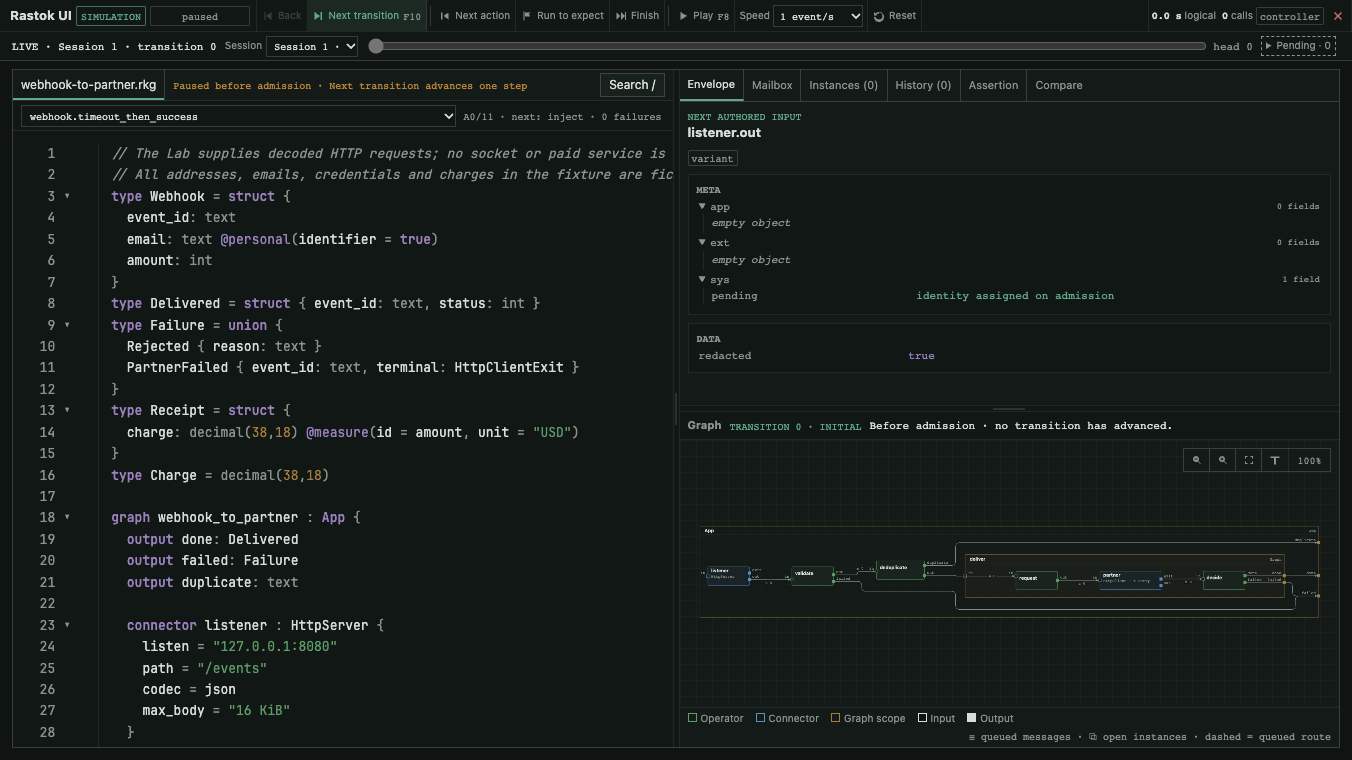
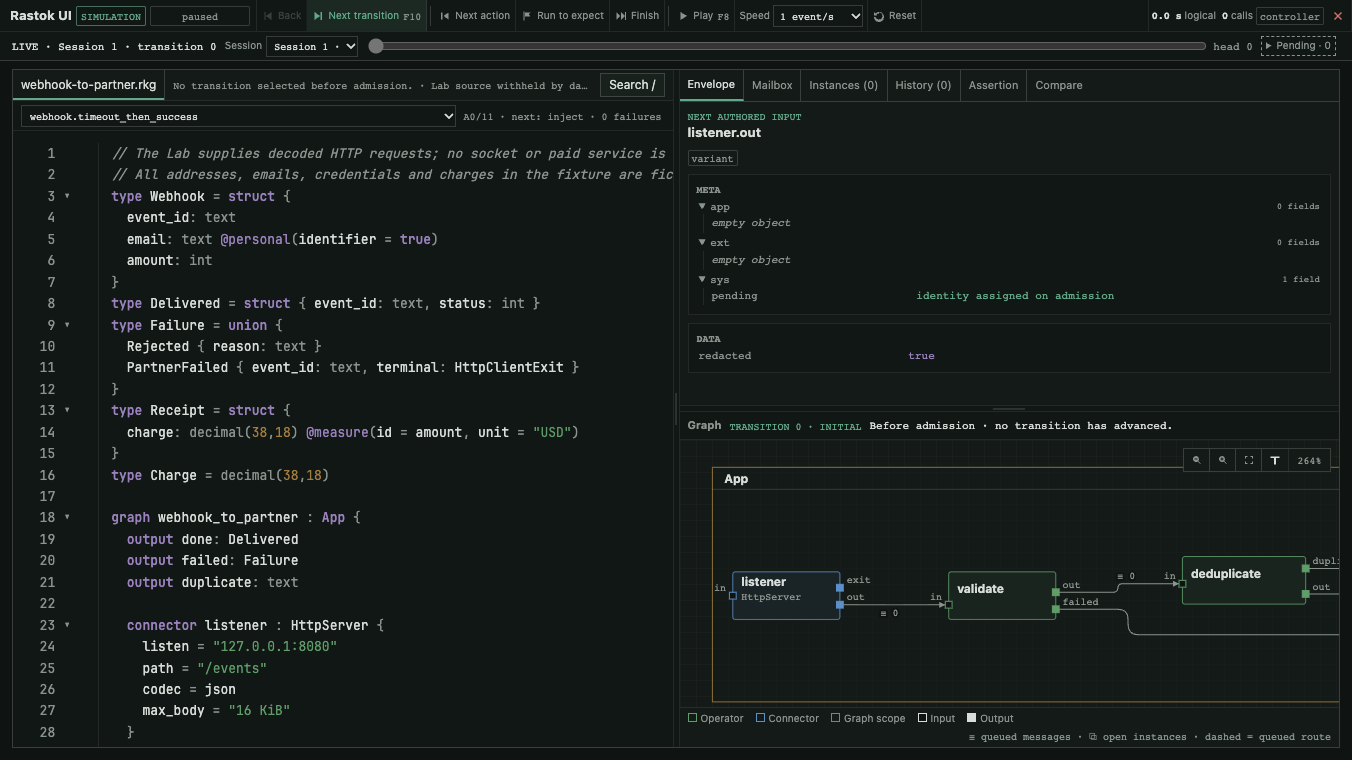
Capture the webhook at Readable size
The guide overview and the webhook tour showed the one-row drawing fitted
to its pane, a band whose text could not be read. The captures now use
Readable size, where the view follows the Node of each transition; the two
pages say which view they show. The three starter captures are unchanged,
byte for byte.

The tour was also captured mid-scroll: four frames a second cannot show a
smooth scroll, so a held position differed from the next frame. Capturing
with reduced motion keeps held positions identical, and the animation goes
from 4,114,980 to 1,906,355 bytes for the same 120 frames. The tour tool
now replaces a previous animation instead of keeping it silently.

The manifest records the revision and the optimized binary used. The site
content test passes its 21 checks.

Assisted-by: Anthropic Claude Fable 5.2 (reasoning effort: max)

Changed region(s): [[0.5281, 0.7263, 0.9941, 0.8171], [0.1243, 0.0908, 0.4349, 0.1211], [0.5281, 0.6053, 0.5592, 0.6355]]

diff --git a/docs/site/debugger.md b/docs/site/debugger.md
@@ -44,7 +44,9 @@ different modes of the same interface, not two names for the Play button.
 
 The numbered view is a recorded backoff transition of
 `webhook.timeout_then_success`. The numbers were added to the running page
-before capture; the state and values come from that scenario.
+before capture; the state and values come from that scenario. The graph is
+shown at Readable size, centered on the Node of that transition; Fit graph
+shows the complete drawing instead.
 
 ![Numbered debugger regions at the webhook retry backoff](assets/debugger-overview.png)
 

diff --git a/docs/site/examples/04-webhook-to-partner.md b/docs/site/examples/04-webhook-to-partner.md
@@ -272,6 +272,8 @@ The following 30-second sequence visits recorded states of
 second attempt. During the backoff, Retry retains the failed batch without
 delivering it to `decide`; only the final result is published. These are real
 debugger views of a simulation, not live HTTP requests or an edited branch.
+The graph is shown at Readable size, where the view follows the Node of each
+transition; Fit graph shows the complete drawing.
 
 ![Thirty seconds through the recorded timeout and retry transitions](../assets/webhook-tour.png)
 
